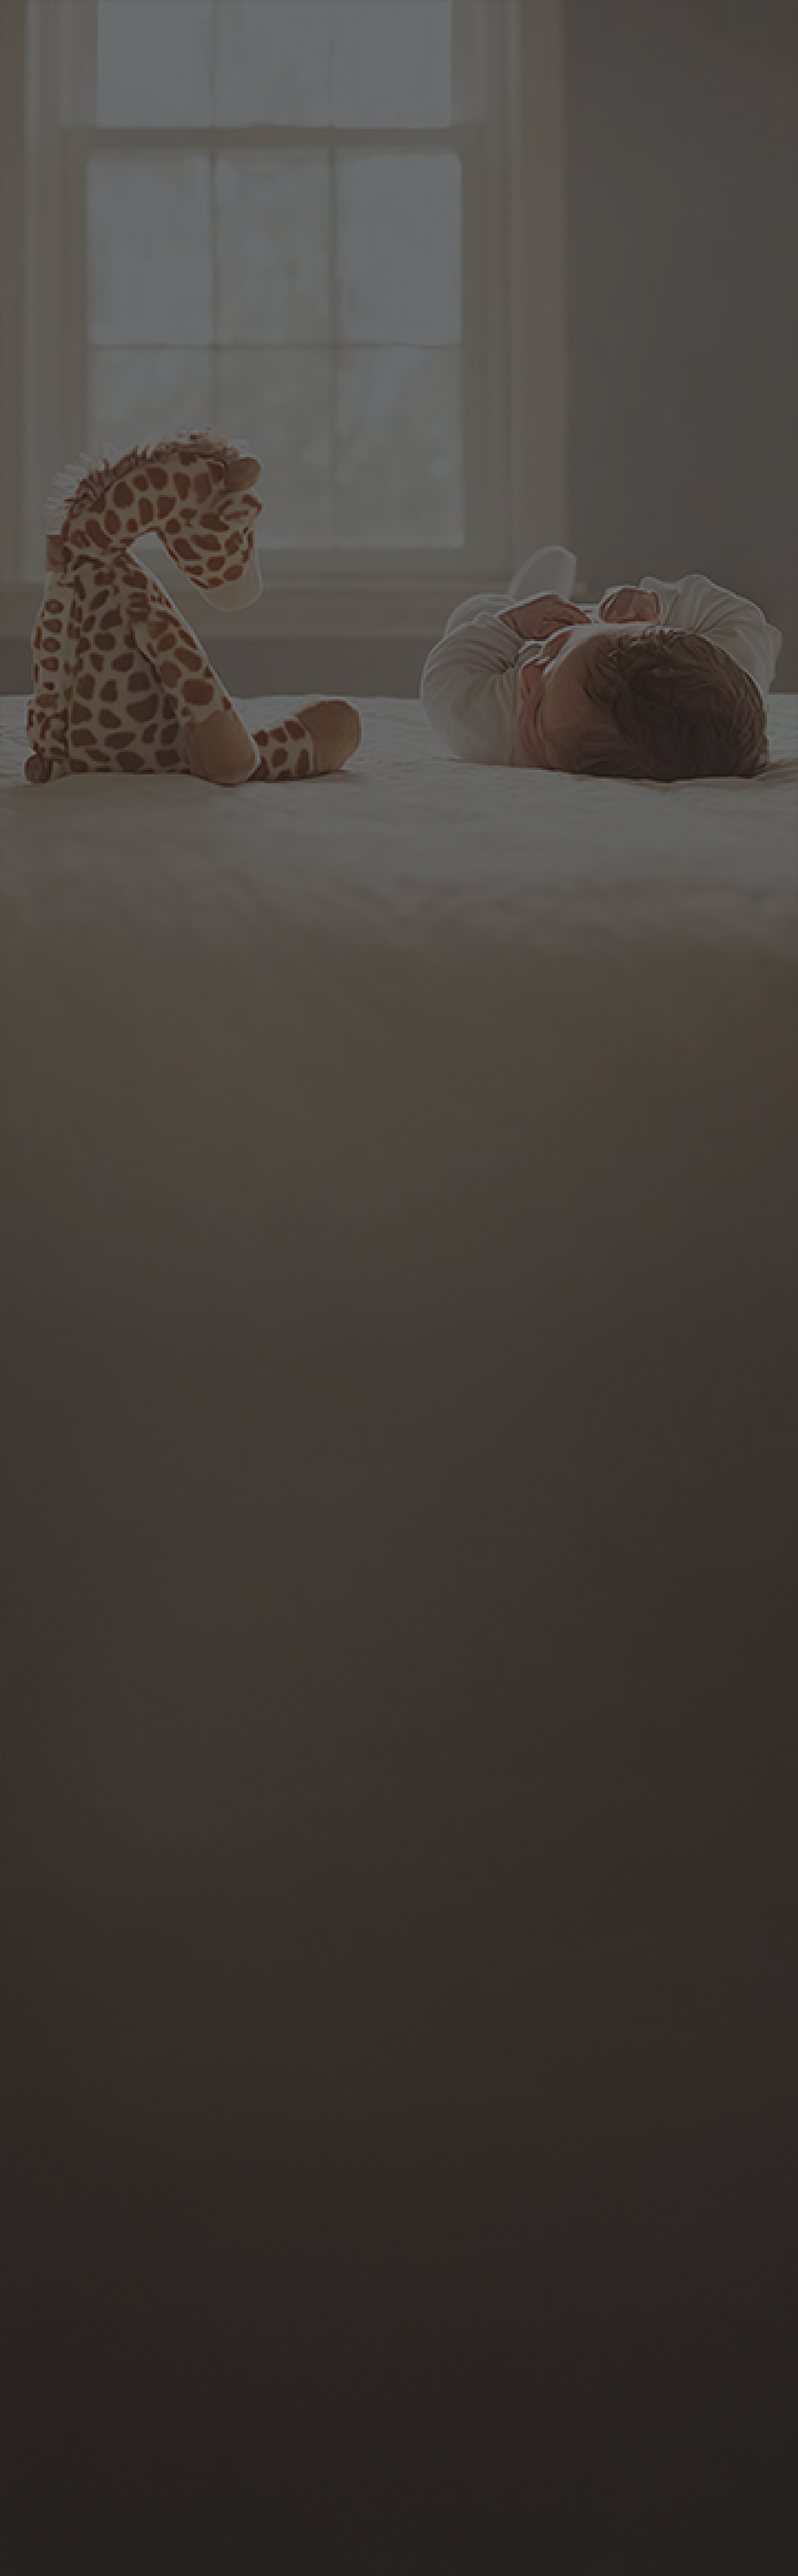
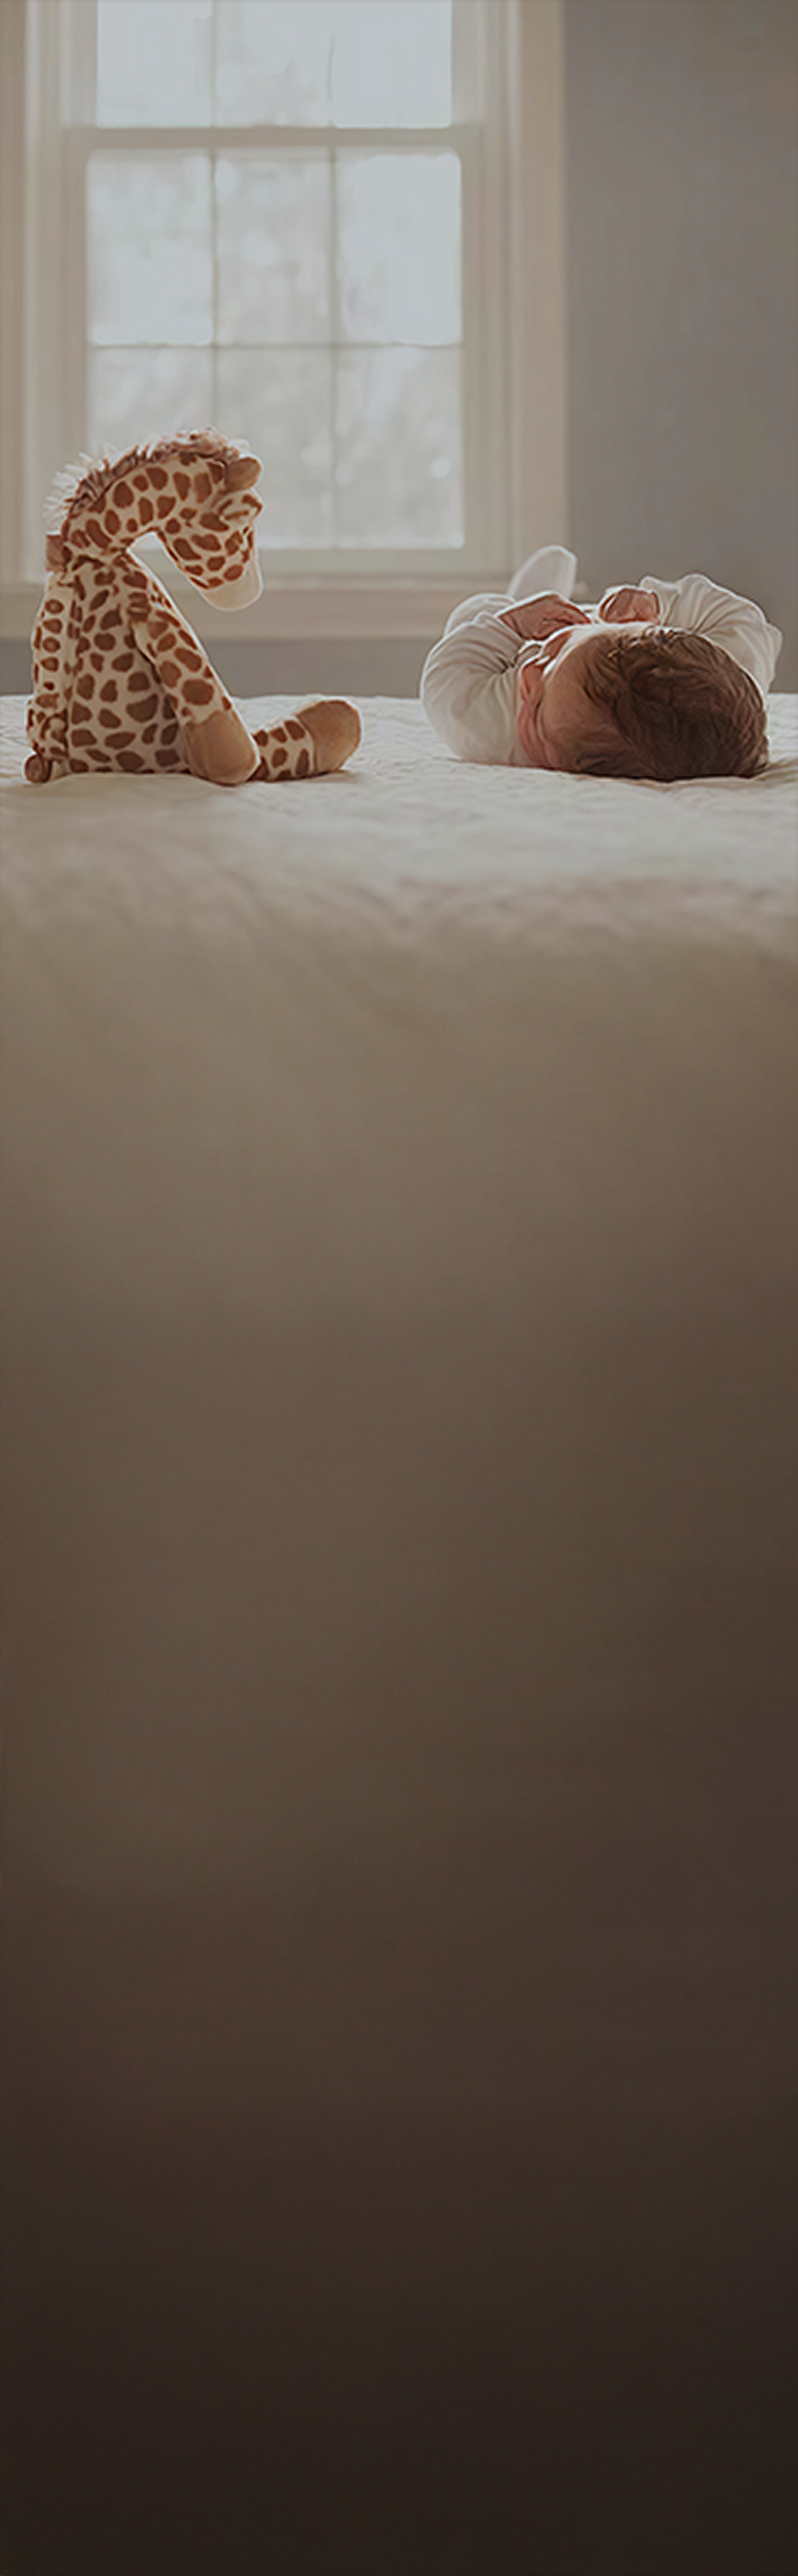
fix: bugs

diff --git a/src/components/Home/LocationsSection.tsx b/src/components/Home/LocationsSection.tsx
@@ -29,11 +29,25 @@ const locations: City[] = [
     image: "/LocationsSection/mumbai.png",
     subCities: [
       {
+        name: "Borivali",
+        slug: "our-center/best-ivf-center-in-borivali",
+        address:
+          "Unit no 2, 1st Floor, Volga Building, Rayani Gram, Shimpoli, Borivali West, Mumbai, Maharashtra 400092",
+        image: "/LocationsSection/Borivali.png",
+      },
+      {
         name: "Thane",
         slug: "our-center/best-ivf-center-in-thane",
         address:
           "16, First Floor, Dosti Imperia Complex , Ghodbunder Road, Opp R Mall, Manpada, Thane (West) - 400607",
         image: "/LocationsSection/Thane.jpg",
+      },
+       {
+        name: "Vashi",
+        slug: "our-center/best-ivf-center-in-vashi",
+        address:
+          "Ground Floor, Bhumiraj Costarica, Palm Beach Service Road, Sector 18, Vashi, Navi Mumbai",
+        image: "/LocationsSection/Vashi.jpg",
       },
       {
         name: "Andheri",
@@ -43,32 +57,11 @@ const locations: City[] = [
         image: "/LocationsSection/Andheri.jpg",
       },
       {
-        name: "Borivali",
-        slug: "our-center/best-ivf-center-in-borivali",
-        address:
-          "Unit no 2, 1st Floor, Volga Building, Rayani Gram, Shimpoli, Borivali West, Mumbai, Maharashtra 400092",
-        image: "/LocationsSection/Borivali.png",
-      },
-      {
         name: "Ghatkopar",
         slug: "our-center/best-ivf-center-in-ghatkopar",
         address:
           "1st Floor, Shop Zone Building, Mahatma Gandhi Rd, Ghatkopar West, Mumbai",
         image: "/LocationsSection/Ghatkopar.jpg",
-      },
-      {
-        name: "Vashi",
-        slug: "our-center/best-ivf-center-in-vashi",
-        address:
-          "Ground Floor, Bhumiraj Costarica, Palm Beach Service Road, Sector 18, Vashi, Navi Mumbai",
-        image: "/LocationsSection/Vashi.jpg",
-      },
-      {
-        name: "Virar",
-        slug: "our-center/best-ivf-center-in-virar",
-        address:
-          "2nd Floor, A-Wing, Shreeram Complex, Tirupati Nagar, Virar West, Virar",
-        image: "/LocationsSection/Virar.png",
       },
       {
         name: "Kalyan",
@@ -77,12 +70,19 @@ const locations: City[] = [
           "Diwadkar Complex, 302, Chatrapati Shivaji Maharaj Chowk, Kalyan(W), JijaMata Colony, Kalyan",
         image: "/LocationsSection/Kalyan.png",
       },
-      {
+       {
         name: "Panvel",
         slug: "our-center/best-ivf-center-in-panvel",
         address:
           "1st Floor, Ganga Kalash, Gandhi Hospital Lane, Near Suruchi Restaurant, Vasudev Balwant Phadke Road, Panvel",
         image: "/LocationsSection/Panvel.jpg",
+      },
+      {
+        name: "Virar",
+        slug: "our-center/best-ivf-center-in-virar",
+        address:
+          "2nd Floor, A-Wing, Shreeram Complex, Tirupati Nagar, Virar West, Virar",
+        image: "/LocationsSection/Virar.png",
       },
     ],
   },
@@ -100,12 +100,19 @@ const locations: City[] = [
       "IKON, 3rd Floor, Above Westside, Opp. Sun Bird Building, Yeolekar Mala, College Road, Nashik -422 005, Maharashtra",
     image: "/LocationsSection/Nashik.jpg",
   },
-  {
-    city: "Jalgaon",
-    slug: "our-center/best-ivf-center-in-jalgaon",
+   {
+    city: "Kolhapur",
+    slug: "our-center/best-ivf-center-in-kolhapur",
     address:
-      "1st Floor, Nayantara Arcade, Pimprala Rd, Pratap Nagar, Jalgaon",
-    image: "/LocationsSection/Jalgaon.png",
+      "Royal Mirage Arcade, A Wing, Railway Colony Rd, opp. Kolhapur railway station, Railway Colony, New Shahupuri, Kolhapur, Maharashtra 416001",
+    image: "/LocationsSection/Kolhapur.png",
+  },
+    {
+    city: "Nagpur",
+    slug: "our-center/best-ivf-center-in-nagpur",
+    address:
+      "6th Floor, Tower 10, N Ambazari Rd, beside Alankar Theater, Shankar Nagar, Bhagwaghar, Dharampeth, Nagpur, Maharashtra 440002",
+    image: "/LocationsSection/Nagpur.png",
   },
   {
     city: "Ahilyanagar",
@@ -121,26 +128,19 @@ const locations: City[] = [
       "3rd floor, Above Raghubir Food Zone, Sharda Vihar, Badnera Road, Amravati, Maharashtra 444605",
     image: "/LocationsSection/amravati.jpg",
   },
+    {
+      city: "Solapur",
+      slug: "our-center/best-ivf-center-in-solapur",
+      address:
+        "KASTURE AGENCIES, 3rd Floor, Unit No 3-B, Kasture Business Centre, Railway lines, Dufferin Chowk, Solapur, Maharashtra 413001",
+      image: "/LocationsSection/Solapur.png",
+    },
   {
-    city: "Kolhapur",
-    slug: "our-center/best-ivf-center-in-kolhapur",
+    city: "Jalgaon",
+    slug: "our-center/best-ivf-center-in-jalgaon",
     address:
-      "Royal Mirage Arcade, A Wing, Railway Colony Rd, opp. Kolhapur railway station, Railway Colony, New Shahupuri, Kolhapur, Maharashtra 416001",
-    image: "/LocationsSection/Kolhapur.png",
-  },
-  {
-    city: "Nagpur",
-    slug: "our-center/best-ivf-center-in-nagpur",
-    address:
-      "6th Floor, Tower 10, N Ambazari Rd, beside Alankar Theater, Shankar Nagar, Bhagwaghar, Dharampeth, Nagpur, Maharashtra 440002",
-    image: "/LocationsSection/Nagpur.png",
-  },
-  {
-    city: "Solapur",
-    slug: "our-center/best-ivf-center-in-solapur",
-    address:
-      "KASTURE AGENCIES, 3rd Floor, Unit No 3-B, Kasture Business Centre, Railway lines, Dufferin Chowk, Solapur, Maharashtra 413001",
-    image: "/LocationsSection/Solapur.png",
+      "1st Floor, Nayantara Arcade, Pimprala Rd, Pratap Nagar, Jalgaon",
+    image: "/LocationsSection/Jalgaon.png",
   },
 ];
 

diff --git a/src/components/Home/FaqSection.tsx b/src/components/Home/FaqSection.tsx
@@ -1,4 +1,5 @@
 "use client";
+import { useRouter } from "next/navigation";
 import React, { useState } from "react";
 
 type QA = { q: string; a: string };
@@ -68,6 +69,7 @@ const tabs: Tab[] = [
 ];
 
 const FaQ: React.FC = () => {
+  const router = useRouter();
   const [activeTab, setActiveTab] = useState(0);
   // By default, no question is open
   const [openIndex, setOpenIndex] = useState(-1);
@@ -86,20 +88,20 @@ const FaQ: React.FC = () => {
         {/* Left intro */}
         <div>
           <span className="inline-block bg-[#1656A50D] text-[#1656A5] text-[12px] md:text-[13px] px-2 py-1 rounded-[8px] mb-4">FAQ's</span>
-          <div style={{paddingBottom:'20px'}}>
-          <h2 className="text-[36px] md:text-[48px] leading-10 font-normal md:leading-[56px] text-[#2C2C2C]">
-            Quick answers to the
-            
-            <span className="text-[#94BA3D]"> most common</span>
-            <br />
-            <span className="text-[#94BA3D]">fertility-related</span>
-            <br />
-           <span className="text-[#94BA3D]">questions.</span> 
-          </h2></div>
+          <div style={{ paddingBottom: '20px' }}>
+            <h2 className="text-[36px] md:text-[48px] leading-10 font-normal md:leading-[56px] text-[#2C2C2C]">
+              Quick answers to the
+
+              <span className="text-[#94BA3D]"> most common</span>
+              <br />
+              <span className="text-[#94BA3D]">fertility-related</span>
+              <br />
+              <span className="text-[#94BA3D]">questions.</span>
+            </h2></div>
           <p className="mt-6 text-[13px] md:text-[16px] md:leading-6 font-normal text-[#2C2C2C]">
             Didn’t find what you are looking for?
             <br />
-            Checkout <span className="text-[#1656A5] underline decoration-[#2C2C2C80] decoration-[0.5px] ">Patient Resources</span> section to know more.
+            Checkout <span className="text-[#1656A5] underline decoration-[#2C2C2C80] decoration-[0.5px] cursor-pointer" onClick={() => router.push("/blog")}>Patient Resources</span> section to know more.
           </p>
         </div>
 
@@ -113,12 +115,11 @@ const FaQ: React.FC = () => {
                 <button
                   key={t.label}
                   onClick={() => handleTab(idx)}
-                  className={`h-[56px] w-auto px-4 rounded-[16px] border text-sm font-medium hover:cursor-pointer transition-colors ${
-                    active
+                  className={`h-[56px] w-auto px-4 rounded-[16px] border text-sm font-medium hover:cursor-pointer transition-colors ${active
                       ? "bg-[#1656A5] text-white border-[#1656A5]"
                       : "bg-[#FFFFFF] text-[#1656A5] border-[#1656A5] "
-                  }`}
-                  
+                    }`}
+
                 >
                   {t.label}
                 </button>
@@ -133,9 +134,8 @@ const FaQ: React.FC = () => {
               return (
                 <div
                   key={i}
-                  className={`bg-[#FFFFFF] overflow-hidden rounded-[16px] ${
-                    open 
-                  }`}
+                  className={`bg-[#FFFFFF] overflow-hidden rounded-[16px] ${open
+                    }`}
                 >
                   <button
                     aria-expanded={open}

diff --git a/src/components/Navbar.tsx b/src/components/Navbar.tsx
@@ -670,7 +670,8 @@ const megaMenuDataMobile: Record<string, any> = {
       {
         title: "About Us",
         links: [
-          { label: "Our Approach", path: "/about-progenesis#our-approach" },
+    { label: "About Us", path: "/about-progenesis" },
+          { label: "Our Approach", path: "/about-progenesis" },
           { label: "Our Vision & Mission", path: "/about-progenesis#our-vision" },
           { label: "Why choose us", path: "/about-progenesis#why-choose-us" },
           { label: "Leadership Team", path: "/about-us/leadership-team" },
@@ -700,12 +701,12 @@ const megaMenuDataMobile: Record<string, any> = {
         links: [
           {
             label: "What is Infertility", path: "/infertility#about",
-            submenu: [
-              { label: "Overview", path: "/infertility#about" },
-              { label: "Symptoms", path: "/infertility#about" },
-              { label: "Diagnosis", path: "/infertility#about" },
-              { label: "Treatment Options", path: "/infertility#about" },
-            ],
+            // submenu: [
+            //   { label: "Overview", path: "/infertility#about" },
+            //   { label: "Symptoms", path: "/infertility#about" },
+            //   { label: "Diagnosis", path: "/infertility#about" },
+            //   { label: "Treatment Options", path: "/infertility#about" },
+            // ],
           },
           {
             label: "Female Infertility Causes", path: "/infertility#fertility-section",
@@ -880,6 +881,7 @@ const megaMenuData: Record<string, any> = {
         title: "About Us",
         links: [
           // { label: "Why Progenesis", path: "/about-progenesis#why-1" },
+          { label: "About Us", path: "/about-progenesis" },
           { label: "Our Approach", path: "/about-progenesis#our-approach" },
           { label: "Our Vision & Mission", path: "/about-progenesis#our-vision" },
           { label: "Why choose us", path: "/about-progenesis#why-choose-us" },
@@ -921,12 +923,12 @@ const megaMenuData: Record<string, any> = {
         links: [
           {
             label: "What is Infertility", path: "/infertility#about",
-            submenu: [
-              { label: "Overview", path: "/infertility#about" },
-              { label: "Symptoms", path: "/infertility#about" },
-              { label: "Diagnosis", path: "/infertility#about" },
-              { label: "Treatment Options", path: "/infertility#about" },
-            ],
+            // submenu: [
+            //   { label: "Overview", path: "/infertility#about" },
+            //   { label: "Symptoms", path: "/infertility#about" },
+            //   { label: "Diagnosis", path: "/infertility#about" },
+            //   { label: "Treatment Options", path: "/infertility#about" },
+            // ],
           },
           {
             label: "Female Infertility Causes", path: "/infertility#fertility-section",

diff --git a/src/components/Home/StoriesSection.tsx b/src/components/Home/StoriesSection.tsx
@@ -115,7 +115,7 @@ export default function StoriesSection({ tag: propTag, heading: propHeading }: S
 
           <div className="flex items-center gap-5">
             {/* Previous Slide Button - Now hidden on small screens (sm:flex) */}
-                        <Link href="/resources" className="">
+                        <Link href="/blog" className="">
             <span className="hidden md:inline-block px-4 py-3 bg-[#1656a5] text-white rounded-lg transition">See all</span>
 
              </Link>
@@ -210,7 +210,7 @@ export default function StoriesSection({ tag: propTag, heading: propHeading }: S
         
         {/* See all button after the carousel on small screens, and always on its own line */}
         <div className="mt-6 flex justify-start md:justify-end">
-            <Link href="/resources" className="inline-block md:hidden">
+            <Link href="/blog" className="inline-block md:hidden">
                 <span className="px-4 py-3 bg-[#1656a5] text-white rounded-lg transition">See all</span>
             </Link>
         </div>

diff --git a/src/page-components/about/FaQ.tsx b/src/page-components/about/FaQ.tsx
@@ -1,4 +1,5 @@
 "use client";
+import { useRouter } from "next/navigation";
 import React, { useState } from "react";
 
 type QA = { q: string; a: string };
@@ -98,6 +99,7 @@ const tabs: Tab[] = [
 ];
 
 const FaQ: React.FC = () => {
+  const router = useRouter();
   const [activeTab, setActiveTab] = useState(0);
   const [openIndex, setOpenIndex] = useState(-1);
 
@@ -134,7 +136,7 @@ const FaQ: React.FC = () => {
             Didn’t find what you are looking for?
             <br />
             Checkout{" "}
-            <span className="text-[#1656A5] underline decoration-[#2C2C2C80] decoration-[0.5px]">
+            <span className="text-[#1656A5] cursor-pointer underline decoration-[#2C2C2C80] decoration-[0.5px]" onClick={()=>router.push("/blog")}>
               Patient Resources
             </span>{" "}
             section to know more.

diff --git a/src/components/Footer.tsx b/src/components/Footer.tsx
@@ -61,7 +61,7 @@ const Footer: React.FC = () => {
       }}
     >
       {/* Background Overlay */}
-      <div className="absolute inset-0 bg-black/40 backdrop-blur-[1px]" />
+      <div className="md:absolute md:inset-0 md:bg-black/40 md:backdrop-blur-[1px]" />
 
       {/* Content */}
       <div className="relative z-10 flex-1 flex flex-col justify-between csLg:justify-center max-w-screen-2xl w-full mx-auto px-6 md:px-20 pt-10 md:pt-20 csLg:pb-10">
